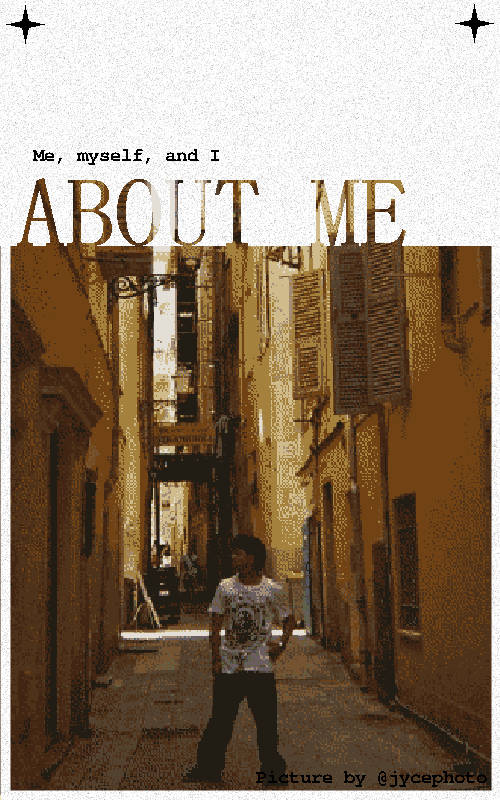
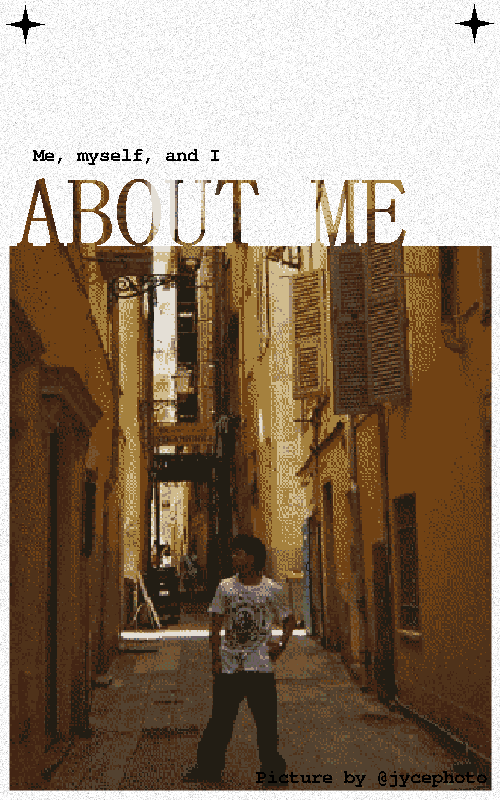
bg

Changed region(s): [[0.0, 0.3125, 0.03, 1.0]]

diff --git a/style.css b/style.css
@@ -115,16 +115,32 @@
 
   width: 500px;
   height: 800px;
-  background: #15ff00;
+  background-image: url('assets/book/aboutme.png');
+  background-size: cover;
+  background-position: center;
   position: absolute;
   top: 0;
   right: 0;
   display: none;
+  transition: ease-in 0.5s;
+  cursor: pointer;
 
 }
 
 #page-2-front {
-  background: #15ff00;
+  background-image: url('assets/book/aboutme.png');
+  background-size: cover;
+  background-position: center;
+}
+
+
+#page-2:hover {
+
+  border: 5px outset rgb(77, 36, 36);
+  border-radius: 5px;
+  transform: scale(1.06);
+  transition: ease-in 0.5s;
+
 }
 
 

diff --git a/README.md b/README.md
@@ -1,1 +1,6 @@
 Essentially just my own website really? I havent started it lol
+
+
+photo credits: 
+@jycephoto - Instagram
+@catmantoo 
